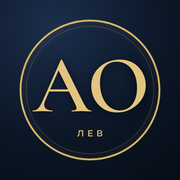
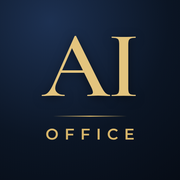
Іконка AI Office + лабораторія виходів зі свінгу (#353)
* liveflags: попередження на живих сигналах (автоматично)

* liveflags: діагностика пропущених сигналів

Claude-Session: https://claude.ai/code/session_01PfKZ3KmLfycDhaKatouCoE

* liveflags: попередження на живих сигналах (автоматично)

* liveflags: символи без USDT у перших 46 сигналах

Claude-Session: https://claude.ai/code/session_01PfKZ3KmLfycDhaKatouCoE

* liveflags: попередження на живих сигналах (автоматично)

* llmcases: R на 2/4/8/12/24 год для перевірки виходу за часом

Claude-Session: https://claude.ai/code/session_01PfKZ3KmLfycDhaKatouCoE

* llm_pilot: обезличені кейси і результати (автоматично)

* llmcases: симуляція лімітних входів (на рівні входу, -0.1 ATR, -0.25 ATR; заповнення за 1 год)

Claude-Session: https://claude.ai/code/session_01PfKZ3KmLfycDhaKatouCoE

* llmcases: рівні з денного графіка (фрактали D1) і відстань до найближчого рівня в бік угоди/позаду

Claude-Session: https://claude.ai/code/session_01PfKZ3KmLfycDhaKatouCoE

* llm_pilot: обезличені кейси і результати (автоматично)

* levels: статистика денних рівнів (підходи, відбій/пробій, наскільки йде далі) + ознаки рівнів для сигналів TD

Claude-Session: https://claude.ai/code/session_01PfKZ3KmLfycDhaKatouCoE

* llm_pilot: обезличені кейси і результати (автоматично)

* levels: статистика денних рівнів (автоматично)

* Журнал покращень TD: що допомагає, що ні (для рішення про картку)

Claude-Session: https://claude.ai/code/session_01PfKZ3KmLfycDhaKatouCoE
[…]

Changed region(s): [[0.0833, 0.0833, 0.9167, 0.9167], [0.3611, 0.6944, 0.6667, 0.7778]]

diff --git a/office_web/lev_static/sw.js b/office_web/lev_static/sw.js
@@ -1,5 +1,5 @@
 // AI Office · Лев: мінімальний service worker. Дані завжди з мережі (ціни й угоди не кешуються); оболонка сторінки — з мережі, а без звʼязку з кешу.
-const SHELL = 'lev-shell-v2';
+const SHELL = 'lev-shell-v3';
 self.addEventListener('install', e => { self.skipWaiting(); e.waitUntil(caches.open(SHELL).then(c => c.addAll(['/lev/', '/lev/icon-192.png', '/lev/lev.jpg']).catch(() => {}))); });
 self.addEventListener('activate', e => { e.waitUntil(caches.keys().then(ks => Promise.all(ks.filter(k => k !== SHELL).map(k => caches.delete(k)))).then(() => self.clients.claim())); });
 self.addEventListener('fetch', e => {

diff --git a/docs/handoff/br-profitability/strategy_search/sw_exitlab.py b/docs/handoff/br-profitability/strategy_search/sw_exitlab.py
@@ -1,0 +1,108 @@
+"""READ-ONLY. СВІНГ: ЯК НЕ ВІДДАВАТИ ПРИБУТОК — усі варіанти виходу на одній історії (27.11.2026, прохання власниці: «я втратила весь прибуток зі свінгу… рахуй усі можливі варіанти»).
+Входи СВІНГ ідентичні sw_mfe.py (H4, 3 рукави + MA200, стоп 3×ATR, ціль 6R, ≤60 барів, одна позиція на монету, комісія FEE). Міняється ЛИШЕ правило виходу. СПИСОК ВАРІАНТІВ ЗАПИСАНО ДО ЗАПУСКУ (ГІПОТЕЗА), нічого не підбирається:
+ BASE            як зараз.
+ BE@k            після +kR стоп у беззбиток (k = 1, 2, 3).
+ LOCK a>m        після +aR стоп на +mR (2>1, 3>1.5, 3>2, 4>2, 4>3).
+ TRAIL a/d       після +aR стоп іде за найкращою ціною на відстані dR (2/1.5, 2/2, 3/1.5, 3/2, 4/2).
+ GIVE a/f        після +aR вихід на закритті бару, якщо від найкращого результату лишилось ≤ f (2/0.5, 3/0.5, 2/0.33, 3/0.66).
+ STALL a/n       після +aR вихід, якщо n барів немає нового максимуму прибутку (2/12, 2/18, 3/12, 3/24).
+ TURTLE n        вихід, коли бар закрився за протилежним екстремумом закриттів за n барів (10, 20); варіант +P — лише якщо угода в плюсі.
+ MKT r           «ринок розвернувся»: BTC на H1 зробив 72-годинний мінімум після падіння ≥3 ATR і за ≤6 барів закрився вище того бару (для LONG — дзеркально); у цей момент закриваємо угоди з результатом ≥ rR (r = 0, 1, 2). MKTB r — те саме, але лише якщо ≥50% монет зробили свій 72-год мінімум за останні 6 год.
+ TP k            ціль kR замість 6R (3, 4, 8, 10).   TIME n — утримання n барів замість 60 (30, 90).
+Стоп, перенесений правилом, діє з НАСТУПНОГО бару; у спірному барі — стоп першим. Показники: сума $ (ризик $10), на угоду, по періодах P1 2020–21 / P2 2022–23 / P3 2024–26, у скількох роках краще за BASE, найбільше падіння,
+ «біль» = частка угод, що були ≥ +2R, а закінчились ≤ +0,5R; «віддано» = середня різниця між найкращим і кінцевим результатом таких угод. Окремо: усі монети і «спокійні» (ATR/ціна < 2,3%).
+Використання: sw_exitlab.py CANDLES_DIR SYMS FEE OUT_CSV"""
+import os, sys
+import numpy as np, pandas as pd
+CD, SYMS, FEE, OUT = sys.argv[1], [s for s in sys.argv[2].split(",") if os.path.exists(f"{sys.argv[1]}/{s}/15m.csv")], float(sys.argv[3]), sys.argv[4]
+PER = 14400; H = 60; K = 6.0; S = 3.0
+def sma(x, n): return pd.Series(x).rolling(n).mean().to_numpy()
+def atr(h, l, c, n=14):
+    pc = np.r_[c[0], c[:-1]]; return pd.Series(np.maximum(h - l, np.maximum(abs(h - pc), abs(l - pc)))).rolling(n).mean().to_numpy()
+def rsi(c, n):
+    d = np.diff(c, prepend=c[0]); up = pd.Series(np.where(d > 0, d, 0)).ewm(alpha=1 / n, adjust=False).mean(); dn = pd.Series(np.where(d < 0, -d, 0)).ewm(alpha=1 / n, adjust=False).mean()
+    return (100 - 100 / (1 + up / dn.replace(0, np.nan))).to_numpy()
+def ev(state): s = np.nan_to_num(state.astype(float)) > 0; return s & ~np.r_[False, s[:-1]]
+B = {}; FL = {1: {}, -1: {}}; REV = {1: None, -1: None}
+for s in SYMS:
+    d = pd.read_csv(f"{CD}/{s}/15m.csv").drop_duplicates("open_time").sort_values("open_time")
+    g = d.groupby(d.open_time // PER * PER).agg(open=("open", "first"), high=("high", "max"), low=("low", "min"), close=("close", "last")).reset_index()
+    b = {k: g[k].to_numpy(float) for k in ("open_time", "open", "high", "low", "close")}; c = b["close"]; b["A"] = atr(b["high"], b["low"], c); b["m200"] = sma(c, 200); B[s] = b
+    g1 = d.groupby(d.open_time // 3600 * 3600).agg(n=("open", "size"), high=("high", "max"), low=("low", "min"), close=("close", "last")).reset_index(); g1 = g1[g1.n == 4]
+    t1, h1, l1, c1 = (g1[k].to_numpy(float) for k in ("open_time", "high", "low", "close")); A1 = atr(h1, l1, c1); n1 = len(c1)
+    for side in (1, -1):                                    # side=+1: злив униз і повернення (це ПРОТИ шортів)
+        lo = pd.Series(l1).rolling(72).min().to_numpy(); hi = pd.Series(h1).rolling(72).max().to_numpy(); hi24 = pd.Series(h1).rolling(24).max().to_numpy(); lo24 = pd.Series(l1).rolling(24).min().to_numpy()
+        fl = np.flatnonzero(((l1 == lo) & (hi24 - l1 >= 3 * A1)) if side > 0 else ((h1 == hi) & (h1 - lo24 >= 3 * A1))); FL[side][s] = t1[fl]
+        if s == "BTCUSDT":
+            out = []
+            for f in fl:
+                for j in range(f + 1, min(n1, f + 7)):
+                    if (l1[j] < l1[f]) if side > 0 else (h1[j] > h1[f]): break
+                    if (c1[j] > h1[f]) if side > 0 else (c1[j] < l1[f]): out.append(t1[j] + 3600); break
+            REV[side] = np.array(sorted(set(out)))
+def breadth_ok(side, te):
+    tot = hit = 0
+    for s, ft in FL[side].items():
+        if not len(ft) or ft[0] > te: continue
+        tot += 1; i = np.searchsorted(ft, te - 3600, side="right") - 1; hit += int(i >= 0 and ft[i] >= te - 7 * 3600)
+    return tot >= 10 and hit / tot >= 0.5
+REVB = {sd: np.array([te for te in REV[sd] if breadth_ok(sd, te)]) for sd in (1, -1)}
+print(f"монет {len(SYMS)}; розворотів ринку (BTC): проти шортів {len(REV[1])}, проти лонгів {len(REV[-1])}; із «весь ринок»: {len(REVB[1])} / {len(REVB[-1])}", flush=True)
+V = [("BASE", {})] + [(f"BE@{k}", {"lock": [(k, 0.0)]}) for k in (1, 2, 3)] + [(f"LOCK {a}>{m}", {"lock": [(a, m)]}) for a, m in ((2, 1), (3, 1.5), (3, 2), (4, 2), (4, 3))] \
+    + [(f"TRAIL {a}/{d}", {"trail": (a, d)}) for a, d in ((2, 1.5), (2, 2), (3, 1.5), (3, 2), (4, 2))] + [(f"GIVE {a}/{f}", {"give": (a, f)}) for a, f in ((2, 0.5), (3, 0.5), (2, 0.33), (3, 0.66))] \
+    + [(f"STALL {a}/{n}", {"stall": (a, n)}) for a, n in ((2, 12), (2, 18), (3, 12), (3, 24))] + [(f"TURTLE {n}", {"turtle": (n, False)}) for n in (10, 20)] + [(f"TURTLE {n}+P", {"turtle": (n, True)}) for n in (10, 20)] \
+    + [(f"MKT {r}", {"mkt": (r, False)}) for r in (0, 1, 2)] + [(f"MKTB {r}", {"mkt": (r, True)}) for r in (0, 1, 2)] + [(f"TP {k}", {"tp": float(k)}) for k in (3, 4, 8, 10)] + [(f"TIME {n}", {"hold": n}) for n in (30, 90)]
+def run(P):
+    rows = []; tpR = P.get("tp", K); hold = P.get("hold", H)
+    for sym in SYMS:
+        b = B[sym]; o, h, l, c, A, m200, t = b["open"], b["high"], b["low"], b["close"], b["A"], b["m200"], b["open_time"]; n = len(c)
+        up, dn = c > m200, c < m200; hi20 = pd.Series(h).rolling(20).max().shift(1).to_numpy(); lo20 = pd.Series(l).rolling(20).min().shift(1).to_numpy()
+        r2 = rsi(c, 2); mb = sma(c, 20); sb = pd.Series(c).rolling(20).std().to_numpy(); ub, lb = mb + 2 * sb, mb - 2 * sb
+        L = (ev(c > hi20) & up) | ev((r2 < 10) & up) | ev((c < lb) & up); Sx = (ev(c < lo20) & dn) | ev((r2 > 90) & dn) | ev((c > ub) & dn)
+        if "turtle" in P: nT = P["turtle"][0]; cmx = pd.Series(c).rolling(nT).max().shift(1).to_numpy(); cmn = pd.Series(c).rolling(nT).min().shift(1).to_numpy()
+        i = 201
+        while i < n - 2:
+            if L[i] == Sx[i] or not A[i] > 0: i += 1; continue
+            side = 1 if L[i] else -1; e = o[i + 1]; risk = S * A[i]
+            if risk <= 0 or risk / e < 0.0005: i += 1; continue
+            stopR = -1.0; peak = 0.0; pk_bar = 0; res = None; why = "TIME"; j = i + 1
+            mk = (REVB if P.get("mkt", (0, False))[1] else REV)[-side] if "mkt" in P else None
+            while j < n and j <= i + hold:
+                adv = side * ((l[j] if side > 0 else h[j]) - e) / risk; fav = side * ((h[j] if side > 0 else l[j]) - e) / risk; cR = side * (c[j] - e) / risk
+                if adv <= stopR: res = stopR; why = "SL" if stopR <= -1 else "LOCK"; break
+                if fav >= tpR: res = tpR; why = "TP"; peak = max(peak, tpR); break
+                if fav > peak: peak = fav; pk_bar = j
+                for a_, m_ in P.get("lock", ()):
+                    if peak >= a_: stopR = max(stopR, m_)
+                if "trail" in P and peak >= P["trail"][0]: stopR = max(stopR, peak - P["trail"][1])
+                if "give" in P and peak >= P["give"][0] and cR <= P["give"][1] * peak: res = cR; why = "GIVE"; break
+                if "stall" in P and peak >= P["stall"][0] and j - pk_bar >= P["stall"][1]: res = cR; why = "STALL"; break
+                if "turtle" in P and ((c[j] < cmn[j]) if side > 0 else (c[j] > cmx[j])) and (not P["turtle"][1] or cR > 0): res = cR; why = "TURTLE"; break
+                if mk is not None and len(mk) and cR >= P["mkt"][0]:
+                    q = np.searchsorted(mk, t[j], side="right")
+                    if q < len(mk) and mk[q] <= t[j] + PER: res = cR; why = "MKT"; break
+                j += 1
+            if res is None: jj = min(j, n - 1); res = side * (c[jj] - e) / risk
+            rows.append((sym, side, t[i + 1], t[min(j, n - 1)] + PER, res - FEE / (risk / e), peak, A[i] / c[i], why))
+            i = max(j, i + 1)
+    return pd.DataFrame(rows, columns=["sym", "side", "ts", "tx", "r", "peak", "atr_pct", "why"])
+def per(y): return np.where(y <= 2021, "P1", np.where(y <= 2023, "P2", "P3"))
+RES = {}; OUTR = []
+for name, P in V:
+    T = run(P); T["usd"] = 10 * T.r; T["y"] = pd.to_datetime(T.tx, unit="s").dt.year; T["P"] = per(T.y); RES[name] = T; print(name, len(T), round(T.usd.sum()), flush=True)
+def block(title, flt):
+    base = flt(RES["BASE"]); by = base.groupby("y").usd.sum(); print(f"\n######## {title}: BASE {len(base)} угод, ${base.usd.sum():+.0f}")
+    print(f"{'варіант':13s} {'угод':>6s} {'сума $':>9s} {'проти BASE':>10s} {'на угоду':>8s} | {'P1':>7s} {'P2':>7s} {'P3':>7s} | років краще | {'падіння':>8s} | біль%  віддано$")
+    out = []
+    for name, _ in V:
+        T = flt(RES[name]); yv = T.groupby("y").usd.sum().reindex(by.index, fill_value=0.0); better = int((yv > by).sum()); pp = T.groupby("P").usd.sum().reindex(["P1", "P2", "P3"], fill_value=0.0)
+        d = T.usd.groupby((T.tx // 86400).astype(int)).sum().sort_index(); eq = d.cumsum(); dd = (eq - eq.cummax()).min(); big = T[T.peak >= 2]; pain = 100 * (big.r <= 0.5).mean() if len(big) else 0.0; gb = 10 * (big.peak - big.r).mean() if len(big) else 0.0
+        out.append((T.usd.sum(), name, len(T), T.usd.sum() - base.usd.sum(), T.usd.mean(), pp, better, len(by), dd, pain, gb))
+        OUTR.append((title, name, len(T), round(T.usd.sum()), round(T.usd.mean(), 3), round(pp["P1"]), round(pp["P2"]), round(pp["P3"]), better, round(dd), round(pain, 1), round(gb, 1)))
+    for tot, name, n, dlt, pt, pp, better, ny, dd, pain, gb in sorted(out, key=lambda x: -x[0]):
+        allp = all(pp[p] >= RES_base_p[title][p] for p in ("P1", "P2", "P3")) if name != "BASE" else False
+        print(f"{name:13s} {n:6d} {tot:+9.0f} {dlt:+10.0f} {pt:+8.2f} | {pp['P1']:+7.0f} {pp['P2']:+7.0f} {pp['P3']:+7.0f} | {better}/{ny}         | {dd:+8.0f} | {pain:4.0f}%  {gb:6.1f}" + ("   <<< не гірше BASE в усіх трьох періодах" if allp else ""))
+RES_base_p = {}
+for title, flt in (("УСІ МОНЕТИ", lambda T: T), ("СПОКІЙНІ МОНЕТИ", lambda T: T[T.atr_pct < 0.023]), ("ЛИШЕ ШОРТИ", lambda T: T[T.side < 0])):
+    RES_base_p[title] = flt(RES["BASE"]).groupby("P").usd.sum().reindex(["P1", "P2", "P3"], fill_value=0.0); block(title, flt)
+pd.DataFrame(OUTR, columns=["set", "variant", "n", "usd", "per_trade", "P1", "P2", "P3", "years_better", "dd", "pain_pct", "giveback_usd"]).to_csv(OUT, index=False)
